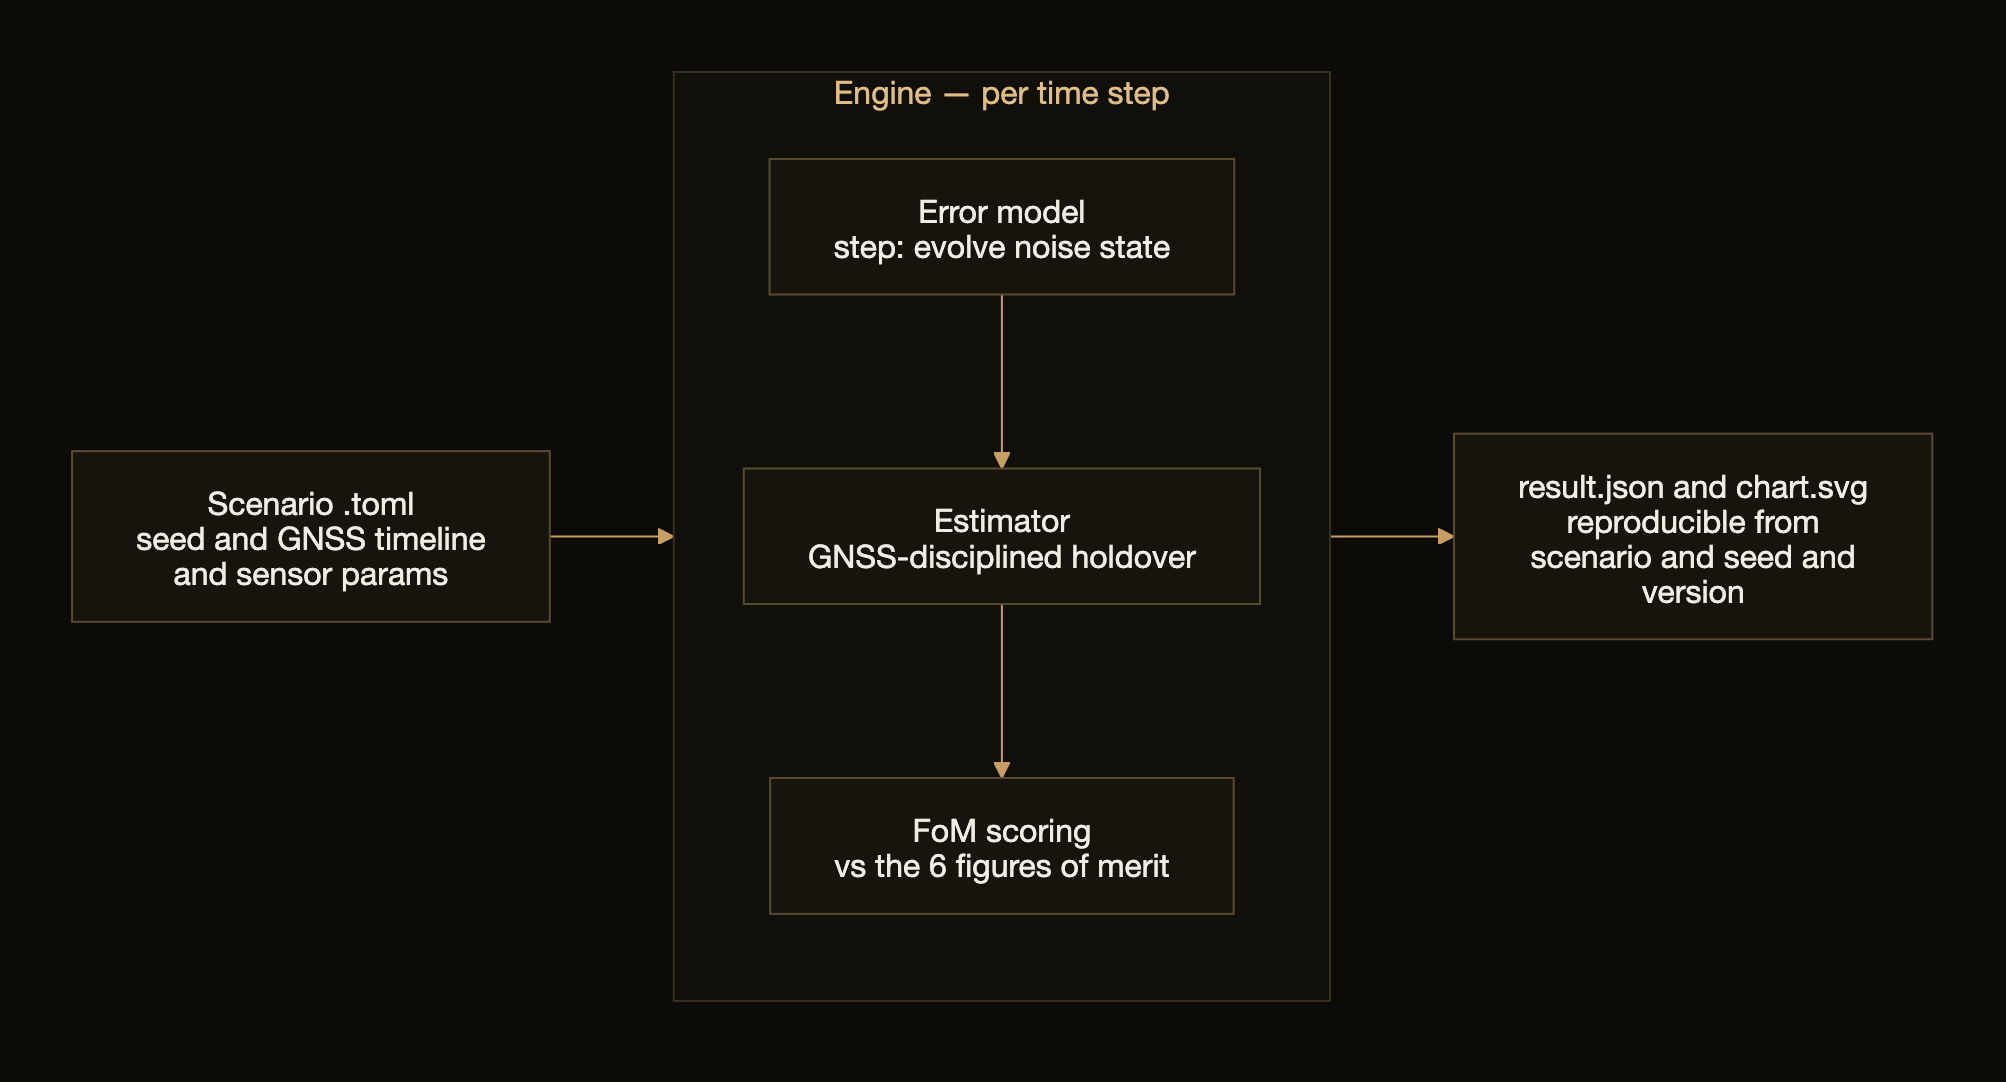
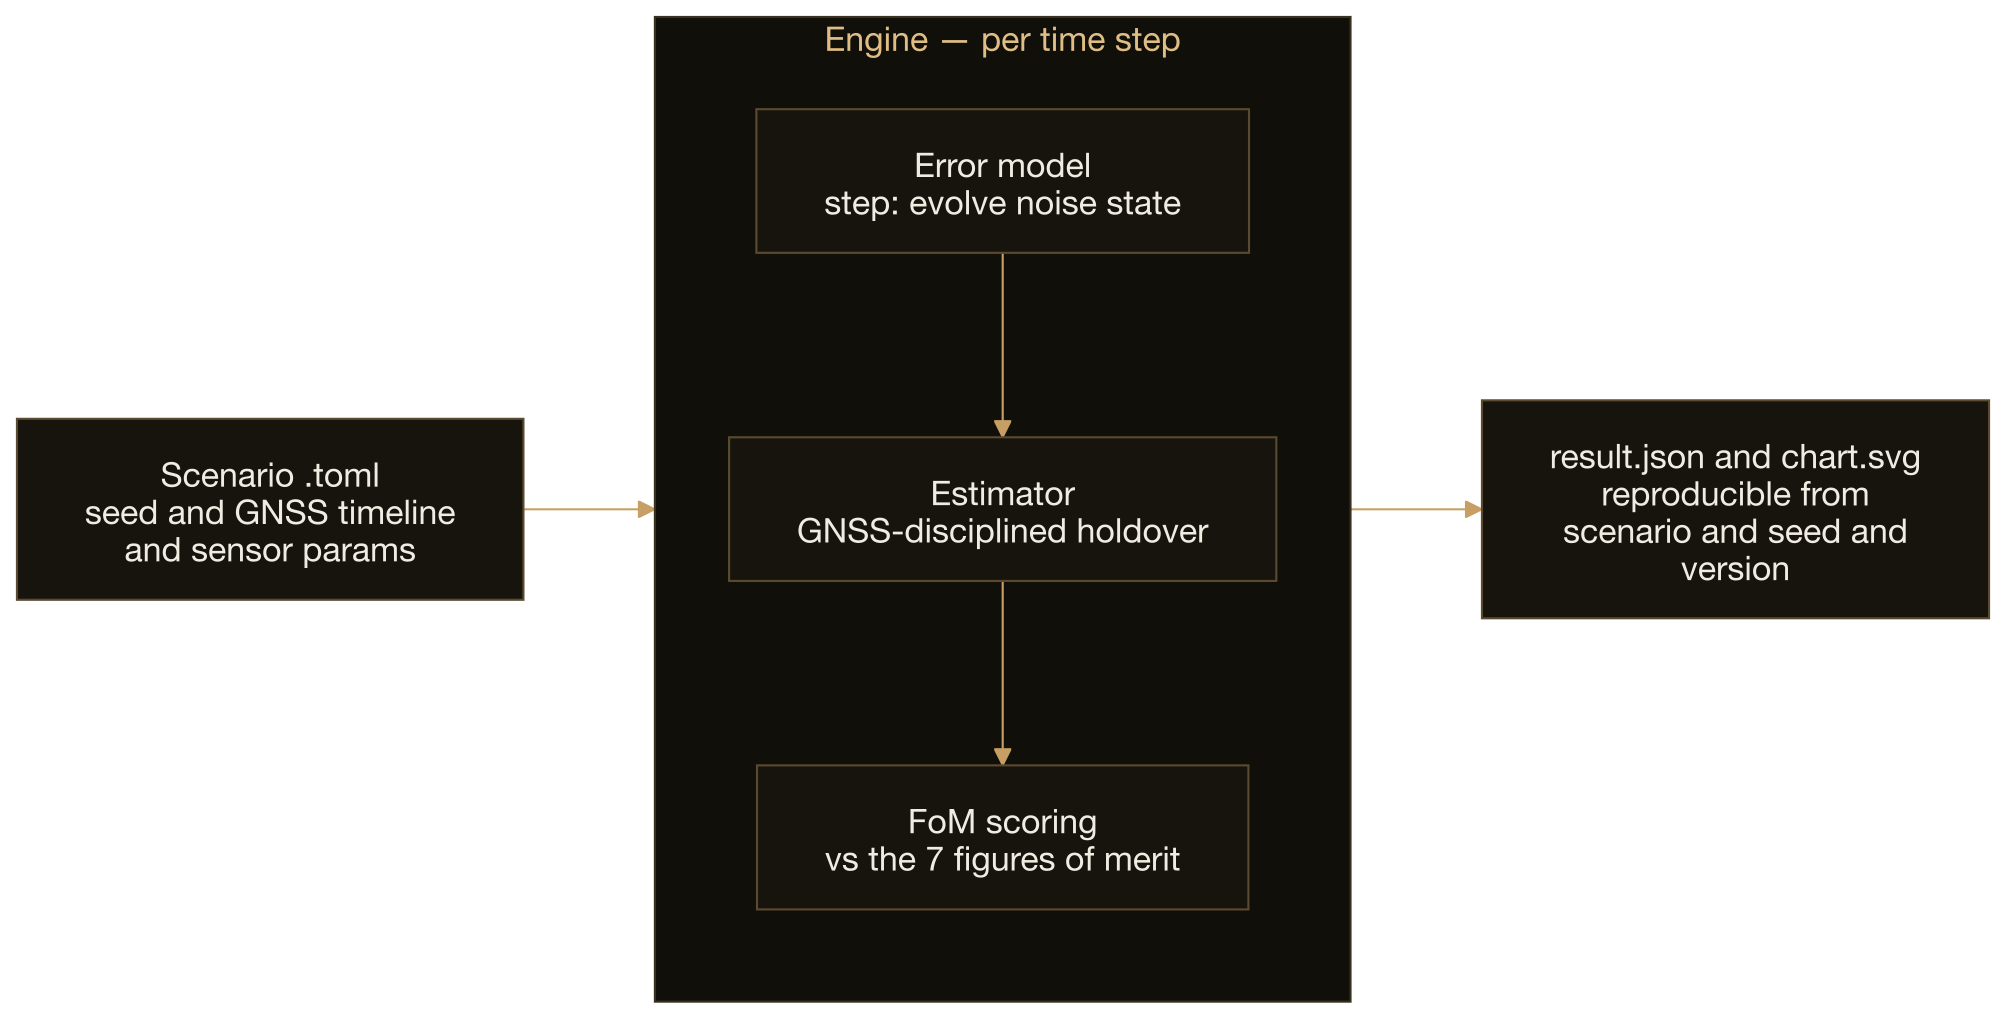
fix(docs): the engine-flow diagram said 6 figures of merit; the engine scores 7
FoMScores carries seven fields — timing_rms_ns, timing_p95_ns, holdover_s,
resilience_slope_ns_per_s, availability, integrity, security — and FOM_LABELS,
which the HTML report and the tier lookup both read, lists the same seven.
The diagram, its committed SVG, and the README's inline mermaid copy all said
six. timing_p95_ns was added and the figure was never revisited.

Nothing caught it. Every other diagram has a doc-sync guard; engine-flow and
distribution have had none since June, and a published figure that contradicts
the code is worse than no figure because a reader has no reason to doubt it.

The guard added here pins the number in the .mmd and in the README to
FOM_LABELS.len(), and checks the rendered SVG separately — mermaid splits a
label into one element per word, so the count lands in its own tspan and no
phrase search over the rendered file could ever have seen it. That is exactly
why this survived. Verified by reverting each of the three surfaces in turn:
each one alone turns the guard red.

distribution.mmd was audited at the same time and is accurate: all five xval
crates, mcp/kshana-mcp and ide/jetbrains exist as drawn.

PNG re-rendered from the corrected SVG via tools/render-diagram.sh (librsvg is
correct here — engine-flow has no foreignObject) and the hash record updated.

diff --git a/src/api.rs b/src/api.rs
@@ -2916,4 +2916,53 @@ mod tests {
             .expect("the bundled tracking-loop scenario runs");
         assert_eq!(file.json, out.json);
     }
+
+    /// The engine-flow diagram states how many figures of merit the engine scores. Pin
+    /// that number to [`FOM_LABELS`], which is the set the report and the tier lookup
+    /// both read, so the picture cannot drift from the engine.
+    ///
+    /// It already had. The diagram, its committed SVG and the README's inline copy all
+    /// said "the 6 figures of merit" while `FoMScores` carried seven — `timing_p95_ns`
+    /// was added and the figure was never revisited. Nothing caught it: every other
+    /// diagram has a doc-sync guard, and these two (engine-flow, distribution) had none
+    /// since June. A published figure that contradicts the code is worse than no figure,
+    /// because a reader has no reason to doubt it.
+    ///
+    /// The SVG is checked separately from the prose because mermaid splits a label into
+    /// one element per word — the count lands in its own `<tspan>`, so no phrase search
+    /// over the rendered file can ever see it. That is precisely why this went unnoticed.
+    #[test]
+    fn the_engine_flow_diagram_states_the_live_figure_of_merit_count() {
+        let n = FOM_LABELS.len();
+        assert!(
+            n >= 5,
+            "FOM_LABELS collapsed to {n} — the guard would be vacuous"
+        );
+
+        let phrase = format!("vs the {n} figures of merit");
+        for (name, body) in [
+            (
+                "docs/diagrams/engine-flow.mmd",
+                include_str!("../docs/diagrams/engine-flow.mmd"),
+            ),
+            ("README.md", include_str!("../README.md")),
+        ] {
+            assert!(
+                body.contains(&phrase),
+                "{name} does not say {phrase:?}; the engine scores {n} figures of merit                  (FOM_LABELS). Fix the .mmd AND the README's inline mermaid block AND the                  committed SVG, then re-render the PNG with tools/render-diagram.sh — the                  README embeds the PNG, not the source."
+            );
+        }
+
+        // The rendered SVG: mermaid emits the number as its own tspan, so look for the
+        // digit as a standalone text node rather than inside the sentence.
+        let svg = include_str!("../docs/assets/diagrams/engine-flow.svg");
+        assert!(
+            svg.contains("> figures<") && svg.contains("> merit<"),
+            "the engine-flow SVG no longer splits the label word-per-word; this guard's              assumption about the rendering changed, so re-derive it rather than delete it"
+        );
+        assert!(
+            svg.contains(&format!("> {n}</tspan>")),
+            "the committed engine-flow SVG does not carry {n} as a standalone tspan — the              picture a reader sees still states the old count"
+        );
+    }
 }

diff --git a/README.md b/README.md
@@ -795,7 +795,7 @@ flowchart LR
     subgraph ENG["Engine (per step)"]
       direction TB
       M["Error model<br/>step(): evolve noise state"] --> E["Estimator<br/>GNSS-disciplined holdover"]
-      E --> F["FoM scoring<br/>vs the 6 figures of merit"]
+      E --> F["FoM scoring<br/>vs the 7 figures of merit"]
     end
     ENG --> OUT["result.json + chart.svg<br/>(reproducible: scenario+seed+version)"]
 ```
